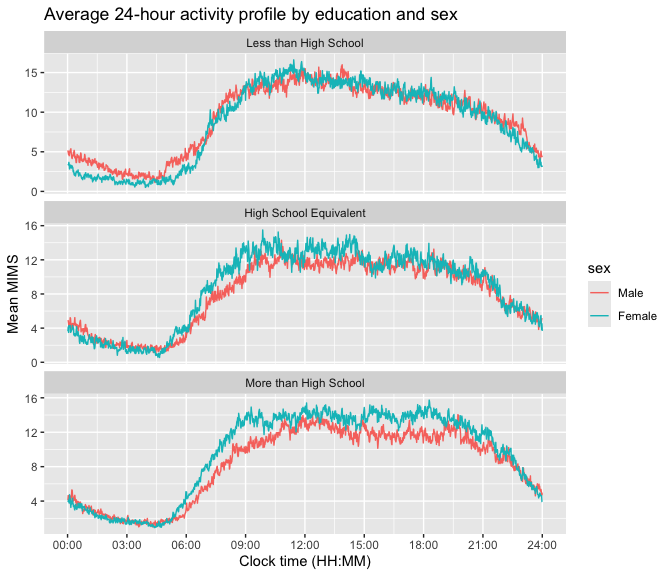
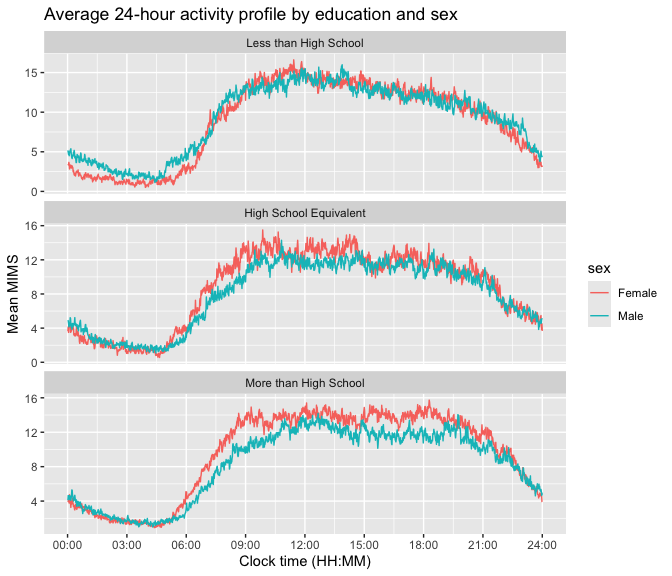
Blue for men and Red for women

diff --git a/p8105_hw3_yl6107.md b/p8105_hw3_yl6107.md
@@ -211,7 +211,7 @@ top3_tbl %>%
   as_raw_html()
 ```
 
-<div id="jwfyuxirbb" style="padding-left:0px;padding-right:0px;padding-top:10px;padding-bottom:10px;overflow-x:auto;overflow-y:auto;width:auto;height:auto;">
+<div id="pewcjiznho" style="padding-left:0px;padding-right:0px;padding-top:10px;padding-bottom:10px;overflow-x:auto;overflow-y:auto;width:auto;height:auto;">
   &#10;  <table class="gt_table" data-quarto-disable-processing="false" data-quarto-bootstrap="false" style="-webkit-font-smoothing: antialiased; -moz-osx-font-smoothing: grayscale; font-family: system-ui, 'Segoe UI', Roboto, Helvetica, Arial, sans-serif, 'Apple Color Emoji', 'Segoe UI Emoji', 'Segoe UI Symbol', 'Noto Color Emoji'; display: table; border-collapse: collapse; line-height: normal; margin-left: auto; margin-right: auto; color: #333333; font-size: 16px; font-weight: normal; font-style: normal; background-color: #FFFFFF; width: auto; border-top-style: solid; border-top-width: 2px; border-top-color: #A8A8A8; border-right-style: none; border-right-width: 2px; border-right-color: #D3D3D3; border-bottom-style: solid; border-bottom-width: 2px; border-bottom-color: #A8A8A8; border-left-style: none; border-left-width: 2px; border-left-color: #D3D3D3;" bgcolor="#FFFFFF">
   <thead style="border-style: none;">
     <tr class="gt_heading" style="border-style: none; background-color: #FFFFFF; text-align: center; border-bottom-color: #FFFFFF; border-left-style: none; border-left-width: 1px; border-left-color: #D3D3D3; border-right-style: none; border-right-width: 1px; border-right-color: #D3D3D3;" bgcolor="#FFFFFF" align="center">
@@ -279,7 +279,7 @@ mean_hour_tbl %>%
   as_raw_html() 
 ```
 
-<div id="zhlxawjsfr" style="padding-left:0px;padding-right:0px;padding-top:10px;padding-bottom:10px;overflow-x:auto;overflow-y:auto;width:auto;height:auto;">
+<div id="ijreirbpog" style="padding-left:0px;padding-right:0px;padding-top:10px;padding-bottom:10px;overflow-x:auto;overflow-y:auto;width:auto;height:auto;">
   &#10;  <table class="gt_table" data-quarto-disable-processing="false" data-quarto-bootstrap="false" style="-webkit-font-smoothing: antialiased; -moz-osx-font-smoothing: grayscale; font-family: system-ui, 'Segoe UI', Roboto, Helvetica, Arial, sans-serif, 'Apple Color Emoji', 'Segoe UI Emoji', 'Segoe UI Symbol', 'Noto Color Emoji'; display: table; border-collapse: collapse; line-height: normal; margin-left: auto; margin-right: auto; color: #333333; font-size: 16px; font-weight: normal; font-style: normal; background-color: #FFFFFF; width: auto; border-top-style: solid; border-top-width: 2px; border-top-color: #A8A8A8; border-right-style: none; border-right-width: 2px; border-right-color: #D3D3D3; border-bottom-style: solid; border-bottom-width: 2px; border-bottom-color: #A8A8A8; border-left-style: none; border-left-width: 2px; border-left-color: #D3D3D3;" bgcolor="#FFFFFF">
   <thead style="border-style: none;">
     <tr class="gt_heading" style="border-style: none; background-color: #FFFFFF; text-align: center; border-bottom-color: #FFFFFF; border-left-style: none; border-left-width: 1px; border-left-color: #D3D3D3; border-right-style: none; border-right-width: 1px; border-right-color: #D3D3D3;" bgcolor="#FFFFFF" align="center">
@@ -417,7 +417,7 @@ boro_year_tbl %>%
   as_raw_html() 
 ```
 
-<div id="cjiuxwbpwl" style="padding-left:0px;padding-right:0px;padding-top:10px;padding-bottom:10px;overflow-x:auto;overflow-y:auto;width:auto;height:auto;">
+<div id="eujxmonwgb" style="padding-left:0px;padding-right:0px;padding-top:10px;padding-bottom:10px;overflow-x:auto;overflow-y:auto;width:auto;height:auto;">
   &#10;  <table class="gt_table" data-quarto-disable-processing="false" data-quarto-bootstrap="false" style="-webkit-font-smoothing: antialiased; -moz-osx-font-smoothing: grayscale; font-family: system-ui, 'Segoe UI', Roboto, Helvetica, Arial, sans-serif, 'Apple Color Emoji', 'Segoe UI Emoji', 'Segoe UI Symbol', 'Noto Color Emoji'; display: table; border-collapse: collapse; line-height: normal; margin-left: auto; margin-right: auto; color: #333333; font-size: 16px; font-weight: normal; font-style: normal; background-color: #FFFFFF; width: auto; border-top-style: solid; border-top-width: 2px; border-top-color: #A8A8A8; border-right-style: none; border-right-width: 2px; border-right-color: #D3D3D3; border-bottom-style: solid; border-bottom-width: 2px; border-bottom-color: #A8A8A8; border-left-style: none; border-left-width: 2px; border-left-color: #D3D3D3;" bgcolor="#FFFFFF">
   <thead style="border-style: none;">
     <tr class="gt_heading" style="border-style: none; background-color: #FFFFFF; text-align: center; border-bottom-color: #FFFFFF; border-left-style: none; border-left-width: 1px; border-left-color: #D3D3D3; border-right-style: none; border-right-width: 1px; border-right-color: #D3D3D3;" bgcolor="#FFFFFF" align="center">
@@ -542,15 +542,15 @@ p_trend
 Overall, rental prices across all New York City boroughs show a clear
 upward trend from 2015 to 2024.
 
-Both *New York County* and *Kings County* experienced a noticeable dip
-during the COVID-19 pandemic, likely because many residents began
+Both **New York County** and **Kings County** experienced a noticeable
+dip during the COVID-19 pandemic, likely because many residents began
 working from home, reducing the demand for apartments near office areas.
 
-A few data points in *New York County* fall outside the plotted range
+A few data points in **New York County** fall outside the plotted range
 due to their exceptionally high prices; these are ignored here since
 they do not affect the overall trend.
 
-Finally, *Richmond County* only appears in the dataset after the
+Finally, **Richmond County** only appears in the dataset after the
 pandemic period, which may indicate that residential coverage in this
 area was limited or that Zillow did not include it before.
 
@@ -598,7 +598,7 @@ levels across boroughs.
   indicating both high prices and large variation among ZIP codes.  
 - **Kings County** and **Queens County** follow, with moderately high
   rents and a more compact distribution.  
-- **Bronx** and \*\*Richmond County\* exhibit the lowest typical rents,
+- **Bronx** and **Richmond County** exhibit the lowest typical rents,
   reflecting more affordable housing markets.
 
 Overall, the plot highlights New York County’s dominance in price levels
@@ -690,6 +690,7 @@ nhanes <- nhanes_demo %>%
       "More than High School" = "3"
     )
   ) %>%
+  mutate(sex = factor(sex, levels = c("Female", "Male"))) %>%
   # filter out people who are younger than 21
   filter(age >= 21, !is.na(sex), !is.na(education)) %>% 
   arrange(seqn, minute)
@@ -722,31 +723,32 @@ edu_sex_tbl <- nhanes %>%
 edu_sex_tbl %>% 
   gt() %>% 
   tab_header(title = "Headcount by education and sex") %>%
+  cols_label(education = "") %>%
   as_raw_html()
 ```
 
-<div id="fxselkjxgi" style="padding-left:0px;padding-right:0px;padding-top:10px;padding-bottom:10px;overflow-x:auto;overflow-y:auto;width:auto;height:auto;">
+<div id="jortzzmhrn" style="padding-left:0px;padding-right:0px;padding-top:10px;padding-bottom:10px;overflow-x:auto;overflow-y:auto;width:auto;height:auto;">
   &#10;  <table class="gt_table" data-quarto-disable-processing="false" data-quarto-bootstrap="false" style="-webkit-font-smoothing: antialiased; -moz-osx-font-smoothing: grayscale; font-family: system-ui, 'Segoe UI', Roboto, Helvetica, Arial, sans-serif, 'Apple Color Emoji', 'Segoe UI Emoji', 'Segoe UI Symbol', 'Noto Color Emoji'; display: table; border-collapse: collapse; line-height: normal; margin-left: auto; margin-right: auto; color: #333333; font-size: 16px; font-weight: normal; font-style: normal; background-color: #FFFFFF; width: auto; border-top-style: solid; border-top-width: 2px; border-top-color: #A8A8A8; border-right-style: none; border-right-width: 2px; border-right-color: #D3D3D3; border-bottom-style: solid; border-bottom-width: 2px; border-bottom-color: #A8A8A8; border-left-style: none; border-left-width: 2px; border-left-color: #D3D3D3;" bgcolor="#FFFFFF">
   <thead style="border-style: none;">
     <tr class="gt_heading" style="border-style: none; background-color: #FFFFFF; text-align: center; border-bottom-color: #FFFFFF; border-left-style: none; border-left-width: 1px; border-left-color: #D3D3D3; border-right-style: none; border-right-width: 1px; border-right-color: #D3D3D3;" bgcolor="#FFFFFF" align="center">
       <td colspan="3" class="gt_heading gt_title gt_font_normal gt_bottom_border" style="border-style: none; color: #333333; font-size: 125%; padding-top: 4px; padding-bottom: 4px; padding-left: 5px; padding-right: 5px; background-color: #FFFFFF; text-align: center; border-left-style: none; border-left-width: 1px; border-left-color: #D3D3D3; border-right-style: none; border-right-width: 1px; border-right-color: #D3D3D3; border-bottom-style: solid; border-bottom-width: 2px; border-bottom-color: #D3D3D3; font-weight: normal;" bgcolor="#FFFFFF" align="center">Headcount by education and sex</td>
     </tr>
     &#10;    <tr class="gt_col_headings" style="border-style: none; border-top-style: solid; border-top-width: 2px; border-top-color: #D3D3D3; border-bottom-style: solid; border-bottom-width: 2px; border-bottom-color: #D3D3D3; border-left-style: none; border-left-width: 1px; border-left-color: #D3D3D3; border-right-style: none; border-right-width: 1px; border-right-color: #D3D3D3;">
-      <th class="gt_col_heading gt_columns_bottom_border gt_center" rowspan="1" colspan="1" scope="col" id="education" style="border-style: none; color: #333333; background-color: #FFFFFF; font-size: 100%; font-weight: normal; text-transform: inherit; border-left-style: none; border-left-width: 1px; border-left-color: #D3D3D3; border-right-style: none; border-right-width: 1px; border-right-color: #D3D3D3; vertical-align: bottom; padding-top: 5px; padding-bottom: 6px; padding-left: 5px; padding-right: 5px; overflow-x: hidden; text-align: center;" bgcolor="#FFFFFF" valign="bottom" align="center">education</th>
-      <th class="gt_col_heading gt_columns_bottom_border gt_right" rowspan="1" colspan="1" scope="col" id="Male" style="border-style: none; color: #333333; background-color: #FFFFFF; font-size: 100%; font-weight: normal; text-transform: inherit; border-left-style: none; border-left-width: 1px; border-left-color: #D3D3D3; border-right-style: none; border-right-width: 1px; border-right-color: #D3D3D3; vertical-align: bottom; padding-top: 5px; padding-bottom: 6px; padding-left: 5px; padding-right: 5px; overflow-x: hidden; text-align: right; font-variant-numeric: tabular-nums;" bgcolor="#FFFFFF" valign="bottom" align="right">Male</th>
+      <th class="gt_col_heading gt_columns_bottom_border gt_center" rowspan="1" colspan="1" scope="col" id="education" style="border-style: none; color: #333333; background-color: #FFFFFF; font-size: 100%; font-weight: normal; text-transform: inherit; border-left-style: none; border-left-width: 1px; border-left-color: #D3D3D3; border-right-style: none; border-right-width: 1px; border-right-color: #D3D3D3; vertical-align: bottom; padding-top: 5px; padding-bottom: 6px; padding-left: 5px; padding-right: 5px; overflow-x: hidden; text-align: center;" bgcolor="#FFFFFF" valign="bottom" align="center"></th>
       <th class="gt_col_heading gt_columns_bottom_border gt_right" rowspan="1" colspan="1" scope="col" id="Female" style="border-style: none; color: #333333; background-color: #FFFFFF; font-size: 100%; font-weight: normal; text-transform: inherit; border-left-style: none; border-left-width: 1px; border-left-color: #D3D3D3; border-right-style: none; border-right-width: 1px; border-right-color: #D3D3D3; vertical-align: bottom; padding-top: 5px; padding-bottom: 6px; padding-left: 5px; padding-right: 5px; overflow-x: hidden; text-align: right; font-variant-numeric: tabular-nums;" bgcolor="#FFFFFF" valign="bottom" align="right">Female</th>
+      <th class="gt_col_heading gt_columns_bottom_border gt_right" rowspan="1" colspan="1" scope="col" id="Male" style="border-style: none; color: #333333; background-color: #FFFFFF; font-size: 100%; font-weight: normal; text-transform: inherit; border-left-style: none; border-left-width: 1px; border-left-color: #D3D3D3; border-right-style: none; border-right-width: 1px; border-right-color: #D3D3D3; vertical-align: bottom; padding-top: 5px; padding-bottom: 6px; padding-left: 5px; padding-right: 5px; overflow-x: hidden; text-align: right; font-variant-numeric: tabular-nums;" bgcolor="#FFFFFF" valign="bottom" align="right">Male</th>
     </tr>
   </thead>
   <tbody class="gt_table_body" style="border-style: none; border-top-style: solid; border-top-width: 2px; border-top-color: #D3D3D3; border-bottom-style: solid; border-bottom-width: 2px; border-bottom-color: #D3D3D3;">
     <tr style="border-style: none;"><td headers="education" class="gt_row gt_center" style="border-style: none; padding-top: 8px; padding-bottom: 8px; padding-left: 5px; padding-right: 5px; margin: 10px; border-top-style: solid; border-top-width: 1px; border-top-color: #D3D3D3; border-left-style: none; border-left-width: 1px; border-left-color: #D3D3D3; border-right-style: none; border-right-width: 1px; border-right-color: #D3D3D3; vertical-align: middle; overflow-x: hidden; text-align: center;" valign="middle" align="center">Less than High School</td>
-<td headers="Male" class="gt_row gt_right" style="border-style: none; padding-top: 8px; padding-bottom: 8px; padding-left: 5px; padding-right: 5px; margin: 10px; border-top-style: solid; border-top-width: 1px; border-top-color: #D3D3D3; border-left-style: none; border-left-width: 1px; border-left-color: #D3D3D3; border-right-style: none; border-right-width: 1px; border-right-color: #D3D3D3; vertical-align: middle; overflow-x: hidden; text-align: right; font-variant-numeric: tabular-nums;" valign="middle" align="right">28</td>
-<td headers="Female" class="gt_row gt_right" style="border-style: none; padding-top: 8px; padding-bottom: 8px; padding-left: 5px; padding-right: 5px; margin: 10px; border-top-style: solid; border-top-width: 1px; border-top-color: #D3D3D3; border-left-style: none; border-left-width: 1px; border-left-color: #D3D3D3; border-right-style: none; border-right-width: 1px; border-right-color: #D3D3D3; vertical-align: middle; overflow-x: hidden; text-align: right; font-variant-numeric: tabular-nums;" valign="middle" align="right">29</td></tr>
+<td headers="Female" class="gt_row gt_right" style="border-style: none; padding-top: 8px; padding-bottom: 8px; padding-left: 5px; padding-right: 5px; margin: 10px; border-top-style: solid; border-top-width: 1px; border-top-color: #D3D3D3; border-left-style: none; border-left-width: 1px; border-left-color: #D3D3D3; border-right-style: none; border-right-width: 1px; border-right-color: #D3D3D3; vertical-align: middle; overflow-x: hidden; text-align: right; font-variant-numeric: tabular-nums;" valign="middle" align="right">29</td>
+<td headers="Male" class="gt_row gt_right" style="border-style: none; padding-top: 8px; padding-bottom: 8px; padding-left: 5px; padding-right: 5px; margin: 10px; border-top-style: solid; border-top-width: 1px; border-top-color: #D3D3D3; border-left-style: none; border-left-width: 1px; border-left-color: #D3D3D3; border-right-style: none; border-right-width: 1px; border-right-color: #D3D3D3; vertical-align: middle; overflow-x: hidden; text-align: right; font-variant-numeric: tabular-nums;" valign="middle" align="right">28</td></tr>
     <tr style="border-style: none;"><td headers="education" class="gt_row gt_center" style="border-style: none; padding-top: 8px; padding-bottom: 8px; padding-left: 5px; padding-right: 5px; margin: 10px; border-top-style: solid; border-top-width: 1px; border-top-color: #D3D3D3; border-left-style: none; border-left-width: 1px; border-left-color: #D3D3D3; border-right-style: none; border-right-width: 1px; border-right-color: #D3D3D3; vertical-align: middle; overflow-x: hidden; text-align: center;" valign="middle" align="center">High School Equivalent</td>
-<td headers="Male" class="gt_row gt_right" style="border-style: none; padding-top: 8px; padding-bottom: 8px; padding-left: 5px; padding-right: 5px; margin: 10px; border-top-style: solid; border-top-width: 1px; border-top-color: #D3D3D3; border-left-style: none; border-left-width: 1px; border-left-color: #D3D3D3; border-right-style: none; border-right-width: 1px; border-right-color: #D3D3D3; vertical-align: middle; overflow-x: hidden; text-align: right; font-variant-numeric: tabular-nums;" valign="middle" align="right">36</td>
-<td headers="Female" class="gt_row gt_right" style="border-style: none; padding-top: 8px; padding-bottom: 8px; padding-left: 5px; padding-right: 5px; margin: 10px; border-top-style: solid; border-top-width: 1px; border-top-color: #D3D3D3; border-left-style: none; border-left-width: 1px; border-left-color: #D3D3D3; border-right-style: none; border-right-width: 1px; border-right-color: #D3D3D3; vertical-align: middle; overflow-x: hidden; text-align: right; font-variant-numeric: tabular-nums;" valign="middle" align="right">23</td></tr>
+<td headers="Female" class="gt_row gt_right" style="border-style: none; padding-top: 8px; padding-bottom: 8px; padding-left: 5px; padding-right: 5px; margin: 10px; border-top-style: solid; border-top-width: 1px; border-top-color: #D3D3D3; border-left-style: none; border-left-width: 1px; border-left-color: #D3D3D3; border-right-style: none; border-right-width: 1px; border-right-color: #D3D3D3; vertical-align: middle; overflow-x: hidden; text-align: right; font-variant-numeric: tabular-nums;" valign="middle" align="right">23</td>
+<td headers="Male" class="gt_row gt_right" style="border-style: none; padding-top: 8px; padding-bottom: 8px; padding-left: 5px; padding-right: 5px; margin: 10px; border-top-style: solid; border-top-width: 1px; border-top-color: #D3D3D3; border-left-style: none; border-left-width: 1px; border-left-color: #D3D3D3; border-right-style: none; border-right-width: 1px; border-right-color: #D3D3D3; vertical-align: middle; overflow-x: hidden; text-align: right; font-variant-numeric: tabular-nums;" valign="middle" align="right">36</td></tr>
     <tr style="border-style: none;"><td headers="education" class="gt_row gt_center" style="border-style: none; padding-top: 8px; padding-bottom: 8px; padding-left: 5px; padding-right: 5px; margin: 10px; border-top-style: solid; border-top-width: 1px; border-top-color: #D3D3D3; border-left-style: none; border-left-width: 1px; border-left-color: #D3D3D3; border-right-style: none; border-right-width: 1px; border-right-color: #D3D3D3; vertical-align: middle; overflow-x: hidden; text-align: center;" valign="middle" align="center">More than High School</td>
-<td headers="Male" class="gt_row gt_right" style="border-style: none; padding-top: 8px; padding-bottom: 8px; padding-left: 5px; padding-right: 5px; margin: 10px; border-top-style: solid; border-top-width: 1px; border-top-color: #D3D3D3; border-left-style: none; border-left-width: 1px; border-left-color: #D3D3D3; border-right-style: none; border-right-width: 1px; border-right-color: #D3D3D3; vertical-align: middle; overflow-x: hidden; text-align: right; font-variant-numeric: tabular-nums;" valign="middle" align="right">56</td>
-<td headers="Female" class="gt_row gt_right" style="border-style: none; padding-top: 8px; padding-bottom: 8px; padding-left: 5px; padding-right: 5px; margin: 10px; border-top-style: solid; border-top-width: 1px; border-top-color: #D3D3D3; border-left-style: none; border-left-width: 1px; border-left-color: #D3D3D3; border-right-style: none; border-right-width: 1px; border-right-color: #D3D3D3; vertical-align: middle; overflow-x: hidden; text-align: right; font-variant-numeric: tabular-nums;" valign="middle" align="right">59</td></tr>
+<td headers="Female" class="gt_row gt_right" style="border-style: none; padding-top: 8px; padding-bottom: 8px; padding-left: 5px; padding-right: 5px; margin: 10px; border-top-style: solid; border-top-width: 1px; border-top-color: #D3D3D3; border-left-style: none; border-left-width: 1px; border-left-color: #D3D3D3; border-right-style: none; border-right-width: 1px; border-right-color: #D3D3D3; vertical-align: middle; overflow-x: hidden; text-align: right; font-variant-numeric: tabular-nums;" valign="middle" align="right">59</td>
+<td headers="Male" class="gt_row gt_right" style="border-style: none; padding-top: 8px; padding-bottom: 8px; padding-left: 5px; padding-right: 5px; margin: 10px; border-top-style: solid; border-top-width: 1px; border-top-color: #D3D3D3; border-left-style: none; border-left-width: 1px; border-left-color: #D3D3D3; border-right-style: none; border-right-width: 1px; border-right-color: #D3D3D3; vertical-align: middle; overflow-x: hidden; text-align: right; font-variant-numeric: tabular-nums;" valign="middle" align="right">56</td></tr>
   </tbody>
   &#10;</table>
 </div>
@@ -755,12 +757,14 @@ edu_sex_tbl %>%
 age_df <- nhanes %>% distinct(seqn, age, sex, education)
 
 age_df <- age_df %>%
-  mutate(age_group = cut(
-    age,
-    breaks = seq(20, 90, by = 10),
-    right = FALSE,
-    labels = c("20–29", "30–39", "40–49", "50–59", "60–69", "70–79", "80+")
-  ))
+  mutate(
+    age_group = cut(
+      age,
+      breaks = seq(20, 90, by = 10),
+      right = FALSE,
+      labels = c("20–29", "30–39", "40–49", "50–59", "60–69", "70–79", "80+")
+    )
+  )
 
 age_df %>%
   ggplot(aes(x = age_group, fill = sex)) +
@@ -861,5 +865,5 @@ morning, stays high during daytime, and decreases after evening.
 
 It’s quite interesting that men and women with a lower education level
 generally have the same activity level during the day, but for people
-with a higher education level, men’s day-time activity level is higher
-compared to women’s.
+with a higher education level, women’s day-time activity level is higher
+compared to men’s.
